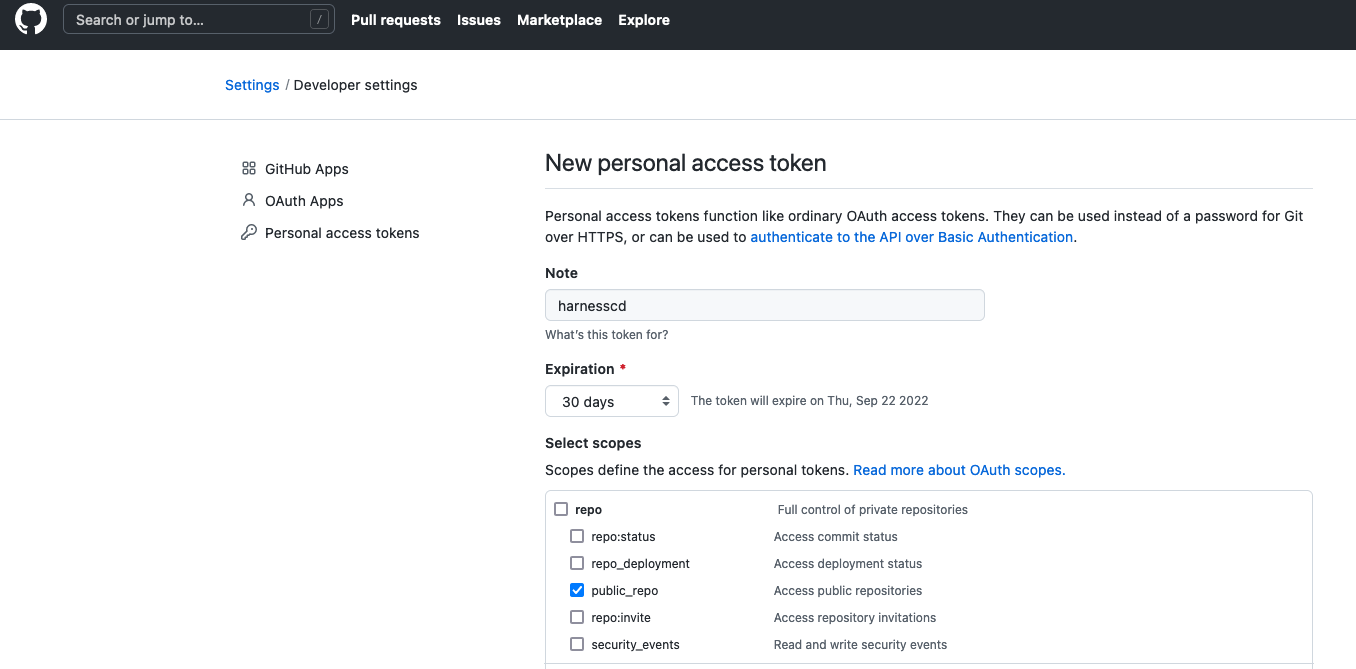
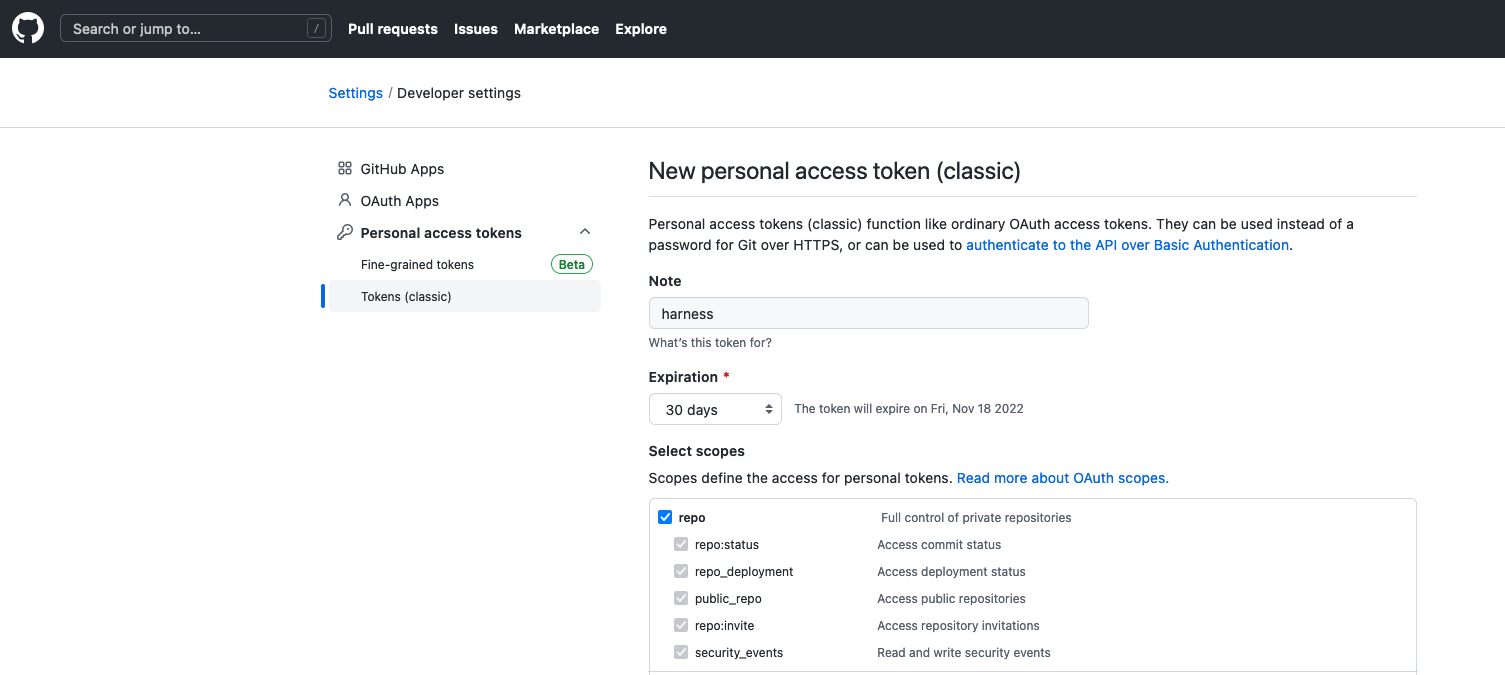
Made GH and Repo Changes
Updated

diff --git a/docusaurus.config.js b/docusaurus.config.js
@@ -50,11 +50,11 @@ const config = {
           customCss: require.resolve("./src/css/custom.css"),
         },
         gtag: {
-          trackingID: "G-Z62TFF68Z3",
+          trackingID: "GTM-MJB7HPB", 
           anonymizeIP: true,
         },
         googleAnalytics: {
-          trackingID: 'GTM-MJB7HPB',
+          trackingID: 'G-Z62TFF68Z3',
           anonymizeIP: true,
         },
       }),

diff --git a/tutorials/deploy-services/kubernetes-cd-first-tutorial.md b/tutorials/deploy-services/kubernetes-cd-first-tutorial.md
@@ -67,6 +67,7 @@ With the Delegate install out of the way, you are now ready to create your first
 
 - Deployments -> Pipelines + Create new Pipeline
 - Name: my-first-pipeline
+- Setup: in-line
 
 ![New Pipeline](static/k8s-cd-first-tutorial/new_pipeline.png)
 
@@ -110,20 +111,19 @@ Harness will also need access to where to grab the Kubernetes manifests from Git
 
 #### GitHub Wiring
 
-GitHub as of 2021 [requires token authentication](https://github.blog/2020-12-15-token-authentication-requirements-for-git-operations/) e.g. no more passwords for git operations. Will need to create a GitHub Personal Access Token that can read in a public repository.
+GitHub as of 2021 [requires token authentication](https://github.blog/2020-12-15-token-authentication-requirements-for-git-operations/) e.g. no more passwords for git operations. 
 
 If you have not created a Personal Access Token before.
 
 - GitHub -> Settings -> Developer Settings -> Personal Access Tokens
-- Name: _harnesscd_
-- Scopes: repo -> public_repo
+- Name: _harness_
+- Scopes: repo 
 - Expiration: 30 days
 
 ![GitHub PAT](static/k8s-cd-first-tutorial/gh_pat.png)
 
 Make sure to copy down the token that is generated.
 
-**End Progressive**
 
 In the GitHub Connector Wizard, there are a few steps to wire in your GitHub credentials. For the example authenticate against the repo which is housing the manifest.
 
@@ -135,7 +135,7 @@ Click Next. Now can set up authentication against the repository.
 
 - URL Type: Repository
 - Connection Type: HTTP
-- [TODO: Migrate to Harness Pubic]GitHub URL: https://github.com/ravilach/harness-deployments
+- GitHub URL: https://github.com/harness-apps/developer-hub-apps
 
 ![GitHub URL](static/k8s-cd-first-tutorial/githuburl.png)
 
@@ -158,7 +158,7 @@ Click Save and Continue to validate the GitHub Connection.
 
 ![Validate GitHub](static/k8s-cd-first-tutorial/validate_gh.png)
 
-Next, you will need to wire in the Manifest Details which are being pulled from [https://github.com/ravilach/harness-deployments/tree/main/applications/grafana](https://github.com/ravilach/harness-deployments/tree/main/applications/grafana).
+Next, you will need to wire in the Manifest Details which are being pulled from [https://github.com/harness-apps/developer-hub-apps/tree/main/applications/grafana](https://github.com/harness-apps/developer-hub-apps/tree/main/applications/grafana).
 
 Looking at the GitHub structure there are two files to leverage, the deployment manifest and a _values.yaml_:
 

diff --git a/tutorials/build-code/ci-node-docker-quickstart.md b/tutorials/build-code/ci-node-docker-quickstart.md
@@ -1,5 +1,6 @@
 ---
 sidebar_position: 1
+description: This build automation guide walks you through building a NodeJS and Docker Application in a CI Pipeline
 ---
 
 # Build Docker image of a NodeJS app
@@ -27,7 +28,7 @@ To create a build, you need to have something that can be built, which means sou
 Languages and package formats have build specific tools. As an example, here is a simplistic NodeJS Application that can be built into a Docker Image; the Dockerfile has specifics on how to build and package the app.
 
 Sample App Repo:
-[https://github.com/ravilach/easy-node-docker](https://github.com/ravilach/easy-node-docker)
+[https://github.com/harness-apps/developer-hub/tree/main/applications/easy-node-docker](https://github.com/harness-apps/developer-hub/tree/main/applications/easy-node-docker)
 
 To execute the local build, the first step if using the sample application is to download/clone the repository to your local machine.
 
@@ -98,12 +99,13 @@ Your onramp and workhorse in the Harness Platform is the Harness Delegate which 
 
 ### Access To Your Sourcecode
 
-Assuming you are leveraging GitHub, Harness will need access to the repository. For the example, providing a Personal Access Token that is scooped to “repo” will allow for connectivity.
+Assuming you are leveraging GitHub, Harness will need access to the repository. For the example, providing a Personal Access Token that is scooped to “repo” will allow for connectivity. If you are leveraging the [sample repository](https://github.com/harness-apps/developer-hub-apps), make sure to Fork
+the sample repository. 
 
 If you have not created a Personal Access Token before.
 
 - GitHub -> Settings -> Developer Settings -> Personal Access Tokens
-- Name: harnessci
+- Name: harness
 - Scopes: repo
 - Expiration: 30 days
 

diff --git a/CONTRIBUTING.md b/CONTRIBUTING.md
@@ -134,7 +134,7 @@ https://harness-1.wistia.com/medias/rpv5vwzpxz-->
 
 ## Sample Applications
 If possible, we would like to persist sample applications in a [Sample Application
-Repository](https://github.com/harness-apps/developer-hub). The Sample Application Repository has a similar [contributors guide](https://github.com/harness-apps/developer-hub/blob/main/CONTRIBUTING.md). 	
+Repository](https://github.com/harness-apps/developer-hub-apps). The Sample Application Repository has a similar [contributors guide](https://github.com/harness-apps/developer-hub-apps/blob/main/CONTRIBUTING.md). 	
 
 ## Change Approval Flow
 Harness Approvers will validate changes and approve the branch for merge into `main`. Once merged into `main`, the CI Process [Drone] will be kicked off automatically. 
